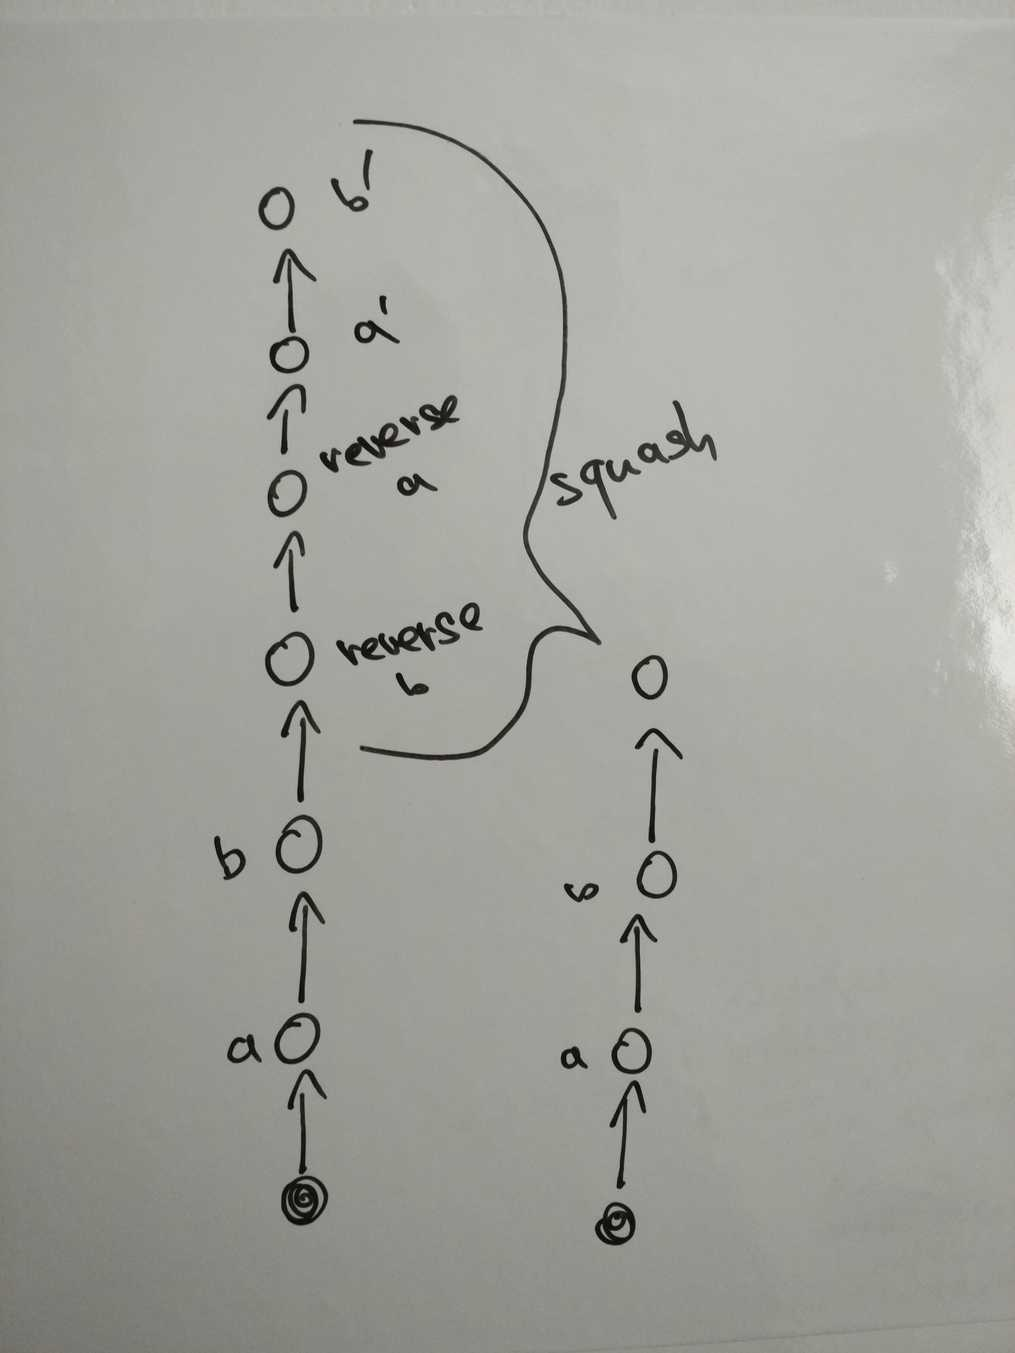
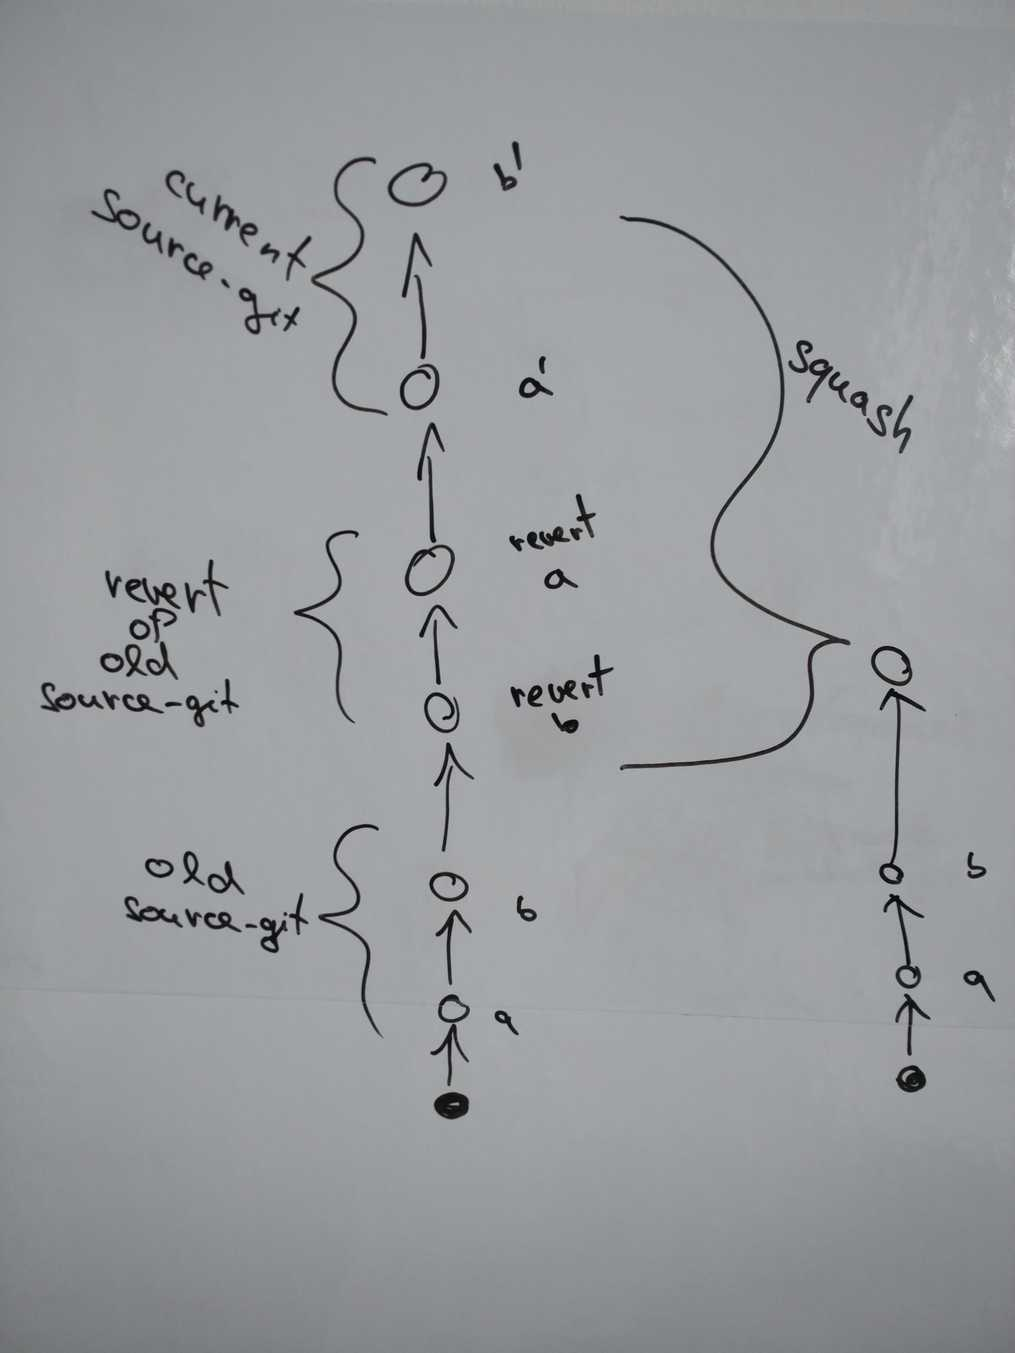
[source-git] Update the content

diff --git a/dist-git-to-src-git/updates.md b/dist-git-to-src-git/updates.md
@@ -14,13 +14,17 @@
     - patch edited
     - patch removed
 - Patches can be applied conditionally (or even manually).
-- Users can help with the sync. (Tweak the change.)
+- Users can help with the sync. (Review and tweak the change.)
+  - Note from the demo meeting.
+    For some users, it is not a problem to be able to make source-git generating locally.
+    They can review (and potentially) improve/correct the result.
+  - Do we want to allow it? How can we do it to no break the workflow?
 - No force-push possible.
 
 
 ### What can differ when going back to the dist-git structure?
 
-- Be able to create the same `RPM` file?
+- Be able to create the "same" `RPM` file? What is "same"?
 - Can spec-file differ? e.g. different patch names, comments
   - Does the result have to be readable?
   - Is it a problem to have really high number of technical patches without sense?
@@ -31,7 +35,7 @@
 ### New changes
 
 - When changing the patches save the line index and patch name with the commit
-  (saving itself will be described later).
+  (saving itself is described bellow).
 - Create a new source-git commit:
   - patch added:
     - convert patch to source changes
@@ -71,20 +75,27 @@ We have various way, how to save metadata for regeneration:
 - Enhance packit config file:
   - ➕ editable by users
   - ➕ can be seen/reviewed
+  - ➕ preserved between git commits
   - ➖ is not connected with the commit (the mapping can be added)
 - git note (see [Git Notes research](../git_notes) for more info):
   - ➕ attached to the git commit
   - ➕ can be changed, but not so easily as a regular file
+  - ➖ not preserved between git commits (easier usage if we use it together with second proposal)
   - ➖ not pulled automatically
 - git-message
   - We can have strict format of the git-message (e.g. yaml).
   - ➕ attached to the git commit
   - ➕ pulled automatically
   - ➖ if we need to extend the info, we can loose readability
-  - ➖/⁉ cannot be edited when pushed
+  - ➖ not preserved between git commits (easier usage if we use it together with second proposal)
+  - ⁉ cannot be edited when pushed
+  - Will be read by users => users can not like it.
+  - If we want to allow users to write it as well,
+    we need to have some wrapper on top of git to ease that.
 - other file
   - ➕ editable by users
   - ➕ can be seen/reviewed
+  - ➕ preserved between git commits
   - ➖ is not connected with the commit
   - ➖ another file
 
@@ -106,27 +117,136 @@ We have various way, how to save metadata for regeneration:
 ## Proposal 2
 
 - Easy solution that mimics the history overwriting without force push.
-- Regenerate the source-git from scratch and use
-  [ours](https://git-scm.com/docs/merge-strategieshttps://git-scm.com/docs/merge-strategies)
-  merging strategy to merge the new version on top of the old version ignoring its content.
+- There are multiple ways, how to do this:
+    - (I) Regenerate the source-git from scratch and use
+      [ours](https://git-scm.com/docs/merge-strategieshttps://git-scm.com/docs/merge-strategies)
+      merging strategy to merge the new version on top of the old version ignoring its content.
+      (Packit does not work now with upstream-ref outside of the linear history.)
 
-  <img src="./img/git-merge-ours.jpg" alt="git-merge-ours" width="200"/>
-  <img src="./img/git-merge-ours-new.jpg" alt="git-merge-ours-new" width="200"/>
+      <img src="./img/git-merge-ours.jpg" alt="git-merge-ours" width="200"/>
+      <img src="./img/git-merge-ours-with-comments.jpg" alt="git-merge-ours-with-comments" width="200"/>
+      <img src="./img/git-merge-ours-new.jpg" alt="git-merge-ours-new" width="200"/>
 
-  - Alternatively, we can `revert` all commits and apply the new ones to have linear history.
-    - All those newly-created commits can be squashed together to have only one new commit.
+    - (II) Use force checkout the content instead of merge to have regular commit instead of the head one.
 
-  <img src="./img/git-revert-squash.jpg" alt="git-revert-squash" width="200"/>
+      <img src="./img/git-force-checkout.jpg" alt="git-force-checkout" width="200"/>
 
+        ```bash
+        # generate new source-git to `rpm-4.14.2-36.el8` branch starting on master
+        git checkout c8s
+        git checkout -f rpm-4.14.2-36.el8 -- .
+        # use the `sg-start-rpm-4.14.2-25.el8` as upstream-ref in config
+        # (use the old one => revert that change)
+        git commit -m "Update from distgit"
+        ```
+
+        ```bash
+        * d3ec53a - Update from distgit (c8s)
+        * 9eba783 - Apply Patch1002: rpm-4.14.2-unversioned-python.patch (rpm-4.14.2-25.el8)
+        * 9609ba3 - Compile with Platform-Python binary where relevant
+        :
+        * 5513f1d - Apply Patch1: rpm-4.11.x-siteconfig.patch
+        * ce19f5d - Downstream spec with commented patches (tag: sg-start-rpm-4.14.2-25.el8)
+        * 7c6a6b1 - .packit.yaml
+        * 49dd86b - Unpack archive
+        * fbcb954 - init (master)
+        ```
+        ```
+        commit d3ec53a11e62cb01252ddd166864e1b9ed6a84e1 (HEAD -> c8s)
+        Author: Frantisek Lachman <flachman@redhat.com>
+        Date:   Thu Jun 11 09:35:01 2020 +0200
+
+            Update from distgit
+
+            Signed-off-by: Frantisek Lachman <flachman@redhat.com>
+
+         SPECS/rpm.spec                   |  69 +++++++++-
+         build/files.c                    |  31 ++++-
+         build/pack.c                     |  34 ++++-
+         :
+         tools/debugedit.c                | 584 +++++++++++++++++++++++++++++++++++++++++++++++++++++-------------------------
+         26 files changed, 628 insertions(+), 270 deletions(-)
+        ```
+        ```bash
+        $ packit srpm
+        Input directory is an upstream repository.
+        100%[=============================>]     3.96M  eta 00:00:00
+        44 patches added to '/home/flachman/Projects/git.centos.org/src/rpm/SPECS/rpm.spec'.
+        SRPM: /home/flachman/Projects/git.centos.org/src/rpm/rpm-4.14.2-37.gd3ec53a1.fc32.src.rpm
+        ```
+
+  - (III) Another alternative is to revert to the initial commit
+    (we should start with some neutral state) and rerun the generation script.
+    This will have upstream tag in the right place and will have a linear history.
+
+    <img src="./img/git-revert-to-init-1.jpg" alt="git-revert-to-init-1" width="200"/>
+    <img src="./img/git-revert-to-init-2.jpg" alt="git-revert-to-init-2" width="200"/>
+
+    ```bash
+    * 46b055b - Apply Patch1002: rpm-4.14.2-unversioned-python.patch (c8s)
+    * f20e0c9 - Compile with Platform-Python binary where relevant
+    * 5f7b687 - Apply Patch1000: disable-python-extra.patch
+    :
+    * 41f0dd8 - Apply Patch1: rpm-4.11.x-siteconfig.patch
+    * 0488837 - Downstream spec with commented patches (tag: sg-start-rpm-4.14.2-36.el8)
+    * 3cf64a9 - .packit.yaml
+    * ef4b7f6 - Unpack archive
+    * 3bbc954 - revert-to-init
+    * 9eba783 - Apply Patch1002: rpm-4.14.2-unversioned-python.patch
+    * 9609ba3 - Compile with Platform-Python binary where relevant
+    * a43a233 - Apply Patch1000: disable-python-extra.patch
+    :
+    * 5513f1d - Apply Patch1: rpm-4.11.x-siteconfig.patch
+    * ce19f5d - Downstream spec with commented patches (tag: sg-start-rpm-4.14.2-25.el8)
+    * 7c6a6b1 - .packit.yaml
+    * 49dd86b - Unpack archive
+    * fbcb954 - init (master)
+    ```
+    ```bash
+    $ git diff 9eba783 46b055b --stat
+    .packit.yaml                                                                                                                               |      2 +-
+     SPECS/0001-Unpack-archive.patch                                                                                                            | 696860 +++++++++++++++++++++++++++++++++++++++++++++++++++++++++++++++++++++++++++++++++++++++++
+     SPECS/{0001-Apply-Patch1-rpm-4.11.x-siteconfig.patch.patch => 0002-Apply-Patch1-rpm-4.11.x-siteconfig.patch.patch}                         |      6 +-
+     SPECS/{0002-Apply-Patch2-rpm-4.13.0-fedora-specspo.patch.patch => 0003-Apply-Patch2-rpm-4.13.0-fedora-specspo.patch.patch}                 |      6 +-
+     SPECS/{0003-Apply-Patch3-rpm-4.9.90-no-man-dirs.patch.patch => 0004-Apply-Patch3-rpm-4.9.90-no-man-dirs.patch.patch}                       |      6 +-
+     :
+     SPECS/0044-Use-newline-as-a-delimiter-to-avoid-xargs-messing-up.patch                                                                      |     26 -
+     SPECS/0045-Make-check-buildroot-check-the-build-files-in-parall.patch                                                                      |     31 -
+     :
+     rpm-4.14.2-38.g9b8c91d8.fc32.src.rpm => SPECS/rpm-4.14.2.tar.bz2                                                                           |    Bin 4251502 -> 4151934 bytes
+     SPECS/rpm-4.14.3.tar.bz2                                                                                                                   |    Bin 0 -> 5059526 bytes
+     SPECS/rpm.spec                                                                                                                             |     69 +-
+     build/files.c                                                                                                                              |     31 +-
+     :                                                                                                                         |    584 +-
+    ```
+    ```bash
+    $ packit srpm
+    Input directory is an upstream repository.
+    44 patches added to '/home/flachman/Projects/git.centos.org/src/rpm/SPECS/rpm.spec'.
+    SRPM: /home/flachman/Projects/git.centos.org/src/rpm/rpm-4.14.2-37.gd3ec53a1.fc32.src.rpm
+    ```
 - We need to make sure that we go by the correct branch when reverting the content to the dist-git style.
   - Saving metadata (like above) can help us with that.
 
 ### Conclusion of proposal 2
 
-- ➖ Git tree is not so clear. (There are multiple ways of doing this.)
+- Final git tree:
+  - version (I)
+    - ➖ Packit does not work with `upstream-ref` in merged branch
+    - ➕ We can still see the history of all generated source-gits.
+    - ➖ A lot of branches around.
+  - version (II)
+    - ➖ The old source-git history in the git history can be outdated.
+      (Still contains the commits from the first run.)
+    - ➖ We loose the history about creation of new source-git.
+    - ➕ Git history is clear. Just one new commit.
+        - Effectivelly, same content as the manual approach.
+  - version (III)
+    - ➕ contains the last source-git generation history
+    - ➖ lots of unnecessary commits from the last runs, that are reverted each time
 - ➕ Source-git generation can be improved on the flow.
   (We can do any rapid change without being scared of the future.)
 - ➕ Easy to implement.
-- ⁉ Will reverting work? Can we go back in the right branch?
+- ⁉ We still need to save metadata to fix problems like conditional patching.
 - ⁉ Conditional patching can be solved in the generation script.
   - We can theoretically generate multiple variants and let the user pick the correct one.
